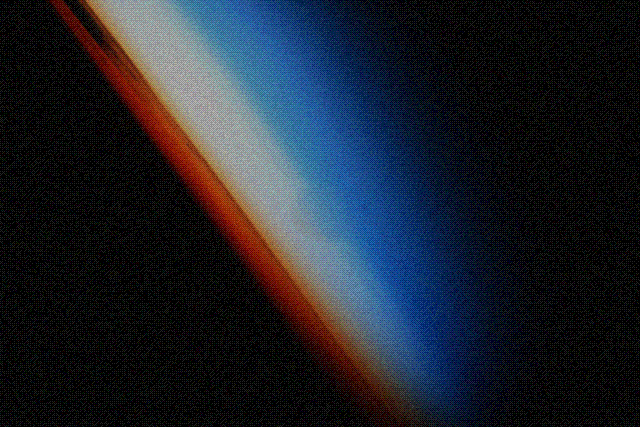
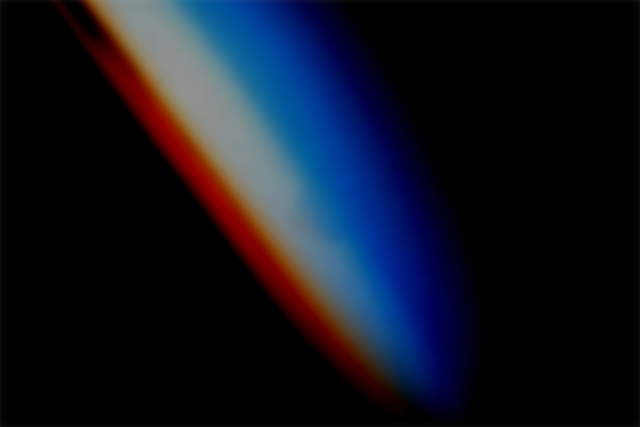
Sign-in: the horizon through Paper's image dithering shader
The same 8x8 ordered dither Capy's cover uses (@paper-design/shaders-react),
over our photo, smoothed once so its dark areas stay black.

Claude-Session: https://claude.ai/code/session_01CDpKtwdoYgwCMu1Q4avsYJ

diff --git a/src/renderer/src/SignIn.tsx b/src/renderer/src/SignIn.tsx
@@ -1,11 +1,12 @@
 import { useSignInWithUsernamePassword } from "@convex-dev/auth/methods/username-password/react";
 import { useAuthActions } from "@convex-dev/auth/react";
+import { ImageDithering } from "@paper-design/shaders-react";
 import { Button } from "@ui-sdk/react/button";
 import { Field, FieldLabel } from "@ui-sdk/react/field";
 import { Input } from "@ui-sdk/react/input";
 import { PasswordInput, PasswordInputControl } from "@ui-sdk/react/password-input";
 import { useMutation } from "convex/react";
-import { useEffect, useRef, useState } from "react";
+import { useEffect, useState } from "react";
 import { flushSync } from "react-dom";
 import { api } from "./data";
 import horizon from "./horizon.png";
@@ -20,40 +21,6 @@ const loaded = Promise.race([
   ]),
   new Promise((resolve) => setTimeout(resolve, 1000)),
 ]);
-
-const DOT = 3;
-const GROUND = [16, 16, 16];
-
-function threshold(x: number, y: number) {
-  let value = 0;
-  for (let bit = 0; bit < 3; bit++)
-    value = (value << 2) | ((((x ^ y) >> bit) & 1) << 1) | ((y >> bit) & 1);
-  return (value + 0.5) / 64;
-}
-
-function paint(canvas: HTMLCanvasElement) {
-  const width = Math.ceil((innerWidth * devicePixelRatio) / DOT);
-  const height = Math.ceil((innerHeight * devicePixelRatio) / DOT);
-  canvas.width = width;
-  canvas.height = height;
-  canvas.style.width = `${(width * DOT) / devicePixelRatio}px`;
-  const context = canvas.getContext("2d", { willReadFrequently: true })!;
-  const scale = Math.max(width / picture.width, height / picture.height);
-  const [drawn, tall] = [picture.width * scale, picture.height * scale];
-  context.filter = "blur(2px)";
-  context.drawImage(picture, (width - drawn) / 2, (height - tall) / 2, drawn, tall);
-
-  const image = context.getImageData(0, 0, width, height);
-  for (let y = 0; y < height; y++)
-    for (let x = 0; x < width; x++) {
-      const at = (y * width + x) * 4;
-      const color = image.data.slice(at, at + 3);
-      const peak = Math.max(...color, 1);
-      const lit = (peak / 255) ** 2 > threshold(x, y);
-      image.data.set(lit ? color.map((channel) => (channel / peak) * 200) : GROUND, at);
-    }
-  context.putImageData(image, 0, 0);
-}
 
 const STEPS = {
   signIn: {
@@ -79,17 +46,13 @@ export function SignIn() {
   const { signIn } = useSignInWithUsernamePassword(api.auth);
   const signUp = useMutation(api.auth.signUp);
   const [flow, setFlow] = useState<keyof typeof STEPS>("signIn");
-  const scene = useRef<HTMLCanvasElement>(null);
   const [ready, setReady] = useState(false);
   const [busy, setBusy] = useState(false);
   const [problem, setProblem] = useState<string>();
   const step = STEPS[flow];
 
   useEffect(() => {
-    const fit = () => paint(scene.current!);
-    void loaded.then(() => (fit(), setReady(true)));
-    addEventListener("resize", fit);
-    return () => removeEventListener("resize", fit);
+    void loaded.then(() => setReady(true));
   }, []);
 
   const change = () =>
@@ -116,7 +79,15 @@ export function SignIn() {
 
   return (
     <main className="welcome">
-      <canvas ref={scene} className={ready ? "scene shown" : "scene"} />
+      <ImageDithering
+        className={ready ? "scene shown" : "scene"}
+        image={horizon}
+        originalColors
+        type="8x8"
+        size={2}
+        colorSteps={2}
+        fit="cover"
+      />
       <span className="veil" />
       {ready && (
         <form key={flow} action={submit}>

diff --git a/src/renderer/src/app.css b/src/renderer/src/app.css
@@ -676,9 +676,7 @@ small {
 
   & .scene {
     position: absolute;
-    top: 0;
-    left: 0;
-    image-rendering: pixelated;
+    inset: 0;
     opacity: 0;
     transition: opacity 1.2s cubic-bezier(0.25, 0.1, 0.25, 1);
 
